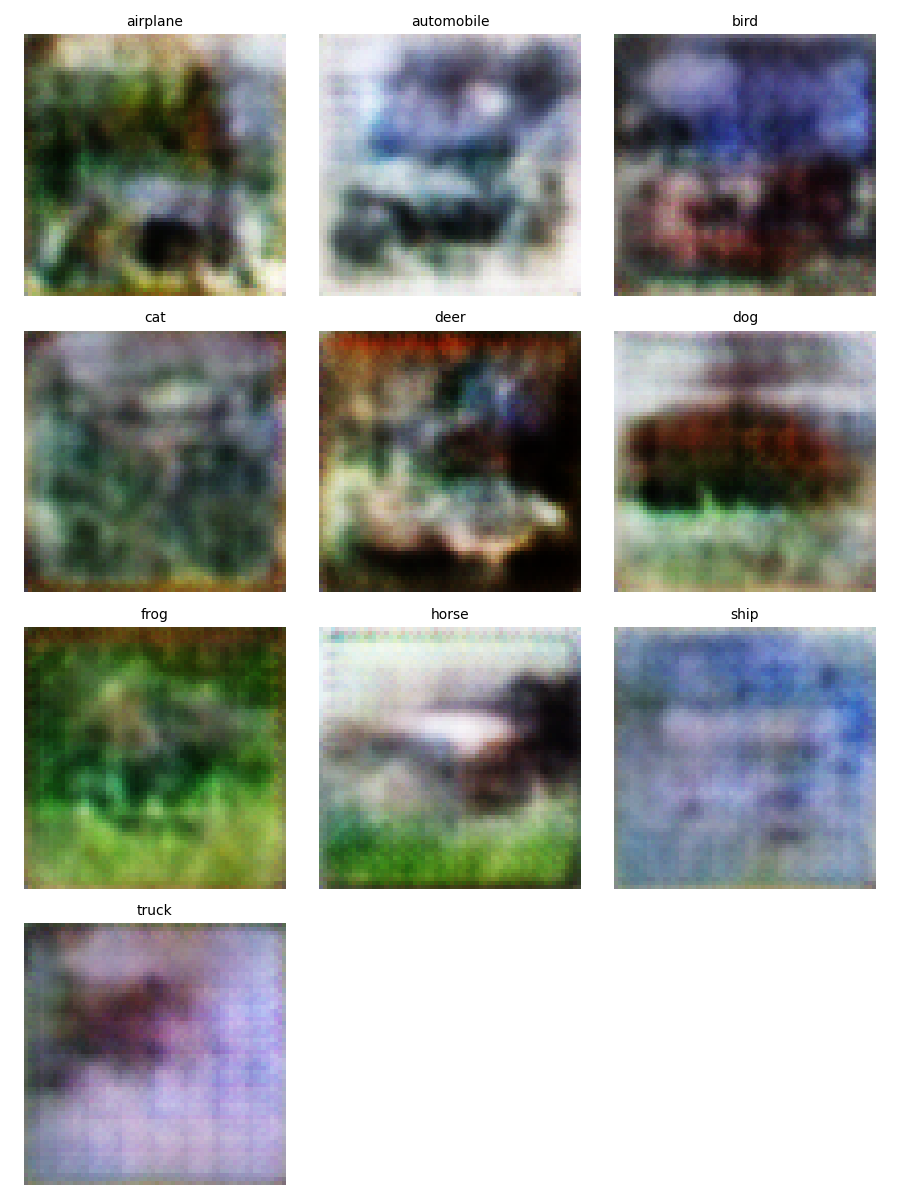
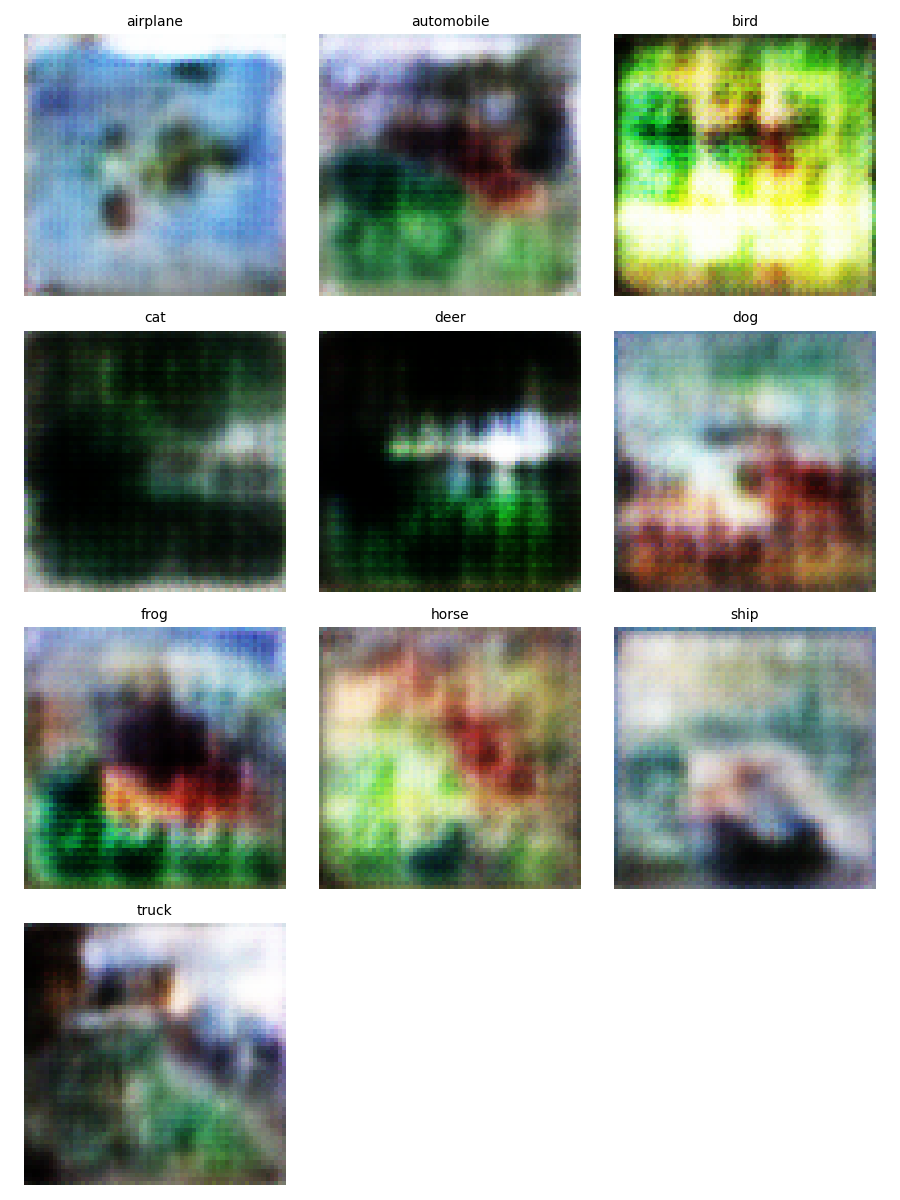
a little update

diff --git a/GAN3.py b/GAN3.py
@@ -79,12 +79,15 @@ class Discriminator(nn.Module):
         self.image_net = nn.Sequential(
             spectral_norm(nn.Conv2d(3, 64, 4, 2, 1)),
             nn.LeakyReLU(0.2),
+            nn.Dropout(0.3),
             spectral_norm(nn.Conv2d(64, 128, 4, 2, 1)),
             nn.BatchNorm2d(128),
             nn.LeakyReLU(0.2),
+            nn.Dropout(0.3),
             spectral_norm(nn.Conv2d(128, 256, 4, 2, 1)),
             nn.BatchNorm2d(256),
             nn.LeakyReLU(0.2),
+            nn.Dropout(0.3),
             spectral_norm(nn.Conv2d(256, 512, 4, 2, 1)),
             nn.BatchNorm2d(512),
             nn.LeakyReLU(0.2),
@@ -92,19 +95,24 @@ class Discriminator(nn.Module):
             nn.BatchNorm2d(1024),
             nn.LeakyReLU(0.2)
         )
-        self.text_fc = spectral_norm(nn.Linear(text_dim, 1024 * 2* 2))
+
+        self.label_proj = nn.Sequential(
+            nn.Linear(text_dim, 256),
+            nn.LeakyReLU(0.2),
+            nn.Linear(256, 1024 * 2 * 2),
+            nn.LeakyReLU(0.2),
+        )
+
         self.final = nn.Sequential(
             nn.Conv2d(2048, 1, 1),
             nn.AdaptiveAvgPool2d(1),
-            
         )
 
     def forward(self, img, label_emb):
         img_feat = self.image_net(img)
-        label_feat = self.text_fc(label_emb).view(-1, 1024, 2, 2)  
-        x = torch.cat((img_feat, label_feat), dim=1)  
+        label_feat = self.label_proj(label_emb).view(-1, 1024, 2, 2)
+        x = torch.cat((img_feat, label_feat), dim=1)
         return self.final(x).view(-1, 1)
-
 def sample_images(generator, labels, save_path):
     os.makedirs(os.path.dirname(save_path), exist_ok=True)
     generator.eval()
@@ -144,7 +152,6 @@ def train(generator, discriminator, dataloader, epochs=100):
 
     optim_G = torch.optim.Adam(generator.parameters(), lr=0.0001, betas=(0.5, 0.9))
     optim_D = torch.optim.Adam(discriminator.parameters(), lr=0.00003, betas=(0.5, 0.9))
-    criterion = nn.BCEWithLogitsLoss()
 
     for epoch in range(epochs):
         for i, (real_imgs, labels) in enumerate(dataloader):
@@ -152,31 +159,34 @@ def train(generator, discriminator, dataloader, epochs=100):
             real_imgs = real_imgs.to(device)
             labels = labels.to(device)
 
-            real_labels = torch.rand(batch_size, 1, device=device) * 0.2 + 0.8 
-            fake_labels = torch.rand(batch_size, 1, device=device) * 0.2        
-
-          
+            # Generate fake images
             noise = torch.randn(batch_size, 100, device=device)
             with torch.no_grad():
                 fake_imgs = generator(noise, labels)
 
+            # Optional noise injection
             real_imgs_noisy = real_imgs + 0.05 * torch.randn_like(real_imgs)
             fake_imgs_noisy = fake_imgs + 0.05 * torch.randn_like(fake_imgs)
 
-        
+            # Discriminator forward
             real_logits = discriminator(real_imgs_noisy, labels)
             fake_logits = discriminator(fake_imgs_noisy, labels)
-            d_loss = criterion(real_logits, real_labels) + criterion(fake_logits, fake_labels)
+
+            # Hinge loss for Discriminator
+            d_loss = torch.mean(F.relu(1.0 - real_logits)) + torch.mean(F.relu(1.0 + fake_logits))
 
             optim_D.zero_grad()
             d_loss.backward()
             optim_D.step()
 
+            # Generator update (3x)
             for _ in range(3):
                 noise = torch.randn(batch_size, 100, device=device)
                 fake_imgs = generator(noise, labels)
                 fake_logits = discriminator(fake_imgs, labels)
-                g_loss = criterion(fake_logits, real_labels)  
+
+                # Hinge loss for Generator
+                g_loss = -torch.mean(fake_logits)
 
                 optim_G.zero_grad()
                 g_loss.backward()
@@ -185,11 +195,10 @@ def train(generator, discriminator, dataloader, epochs=100):
             if i % 100 == 0:
                 print(f"Epoch {epoch} Step {i} | D Loss: {d_loss.item():.4f} | G Loss: {g_loss.item():.4f}")
 
-
         if epoch % 10 == 0:
             torch.save(generator.state_dict(), f"checkpoints/generator_epoch_{epoch:03d}.pth")
             torch.save(discriminator.state_dict(), f"checkpoints/discriminator_epoch_{epoch:03d}.pth")
-            sample_images(generator, torch.eye(10).to(device), f"samples/sample_epoch_{epoch:03d}.png")
+            sample_images(generator, torch.eye(10, device=device), f"samples/sample_epoch_{epoch:03d}.png")
 # ---------------- Run ----------------
 dataset = CIFAR10LabelDataset(train=True)
 dataloader = DataLoader(dataset, batch_size=64, shuffle=True)
